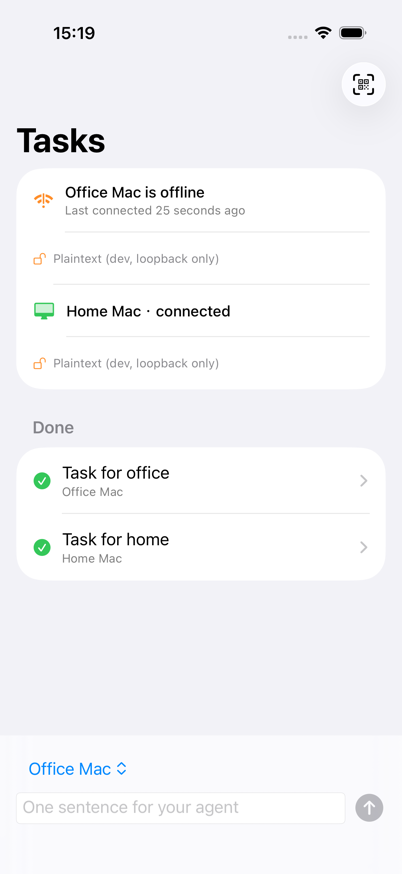
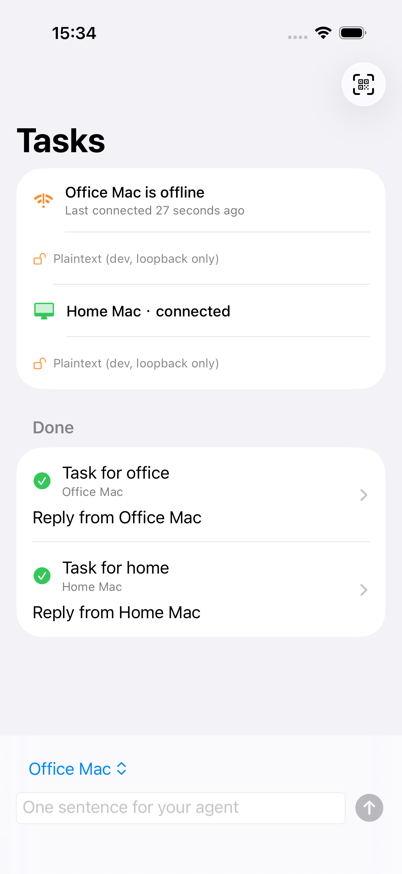
Verify two paired hosts keep device lists and inline replies separate

diff --git a/ios/dsh-mobileUITests/S9PairedHostsUITests.swift b/ios/dsh-mobileUITests/S9PairedHostsUITests.swift
@@ -1,0 +1,56 @@
+import XCTest
+
+@MainActor
+final class S9PairedHostsUITests: XCTestCase {
+    func testPairedDevicesAndInlineAnswersStayWithTheirHost() throws {
+        try XCTSkipUnless(env["DSHM_S9_PEER"] != nil, "run scripts/demo/s9.sh")
+        let peer = try XCTUnwrap(env["DSHM_S9_PEER"])
+        let app = XCUIApplication()
+        app.launchArguments = ["-DSHMResetPairing", "YES", "-DSHMResetStore", "YES", "-DSHMBridgePort", "1"]
+        app.launch()
+        for index in 0...1 {
+            let offer = try XCTUnwrap(env["DSHM_S9_OFFER_\(index)"].flatMap(URL.init(string:)))
+            let pairing = openDeepLink(offer)
+            pairing.buttons["pairing.confirm"].tap()
+            let status = pairing.descendants(matching: .any)["pairing.status"]
+            XCTAssertEqual(waitForValue(status, in: ["paired", "failed"], timeout: 20), "paired", status.label)
+            pairing.buttons["pairing.done"].tap()
+        }
+        var currentDevice: String?
+        for index in 0...1 {
+            let port = try XCTUnwrap(env["DSHM_S9_PORT_\(index)"])
+            // The two distinct Noise keys have the same system hostname; their endpoints distinguish them.
+            let manage = app.buttons.matching(identifier: "host.manage")
+                .matching(NSPredicate(format: "label ENDSWITH %@", ":\(port))")).firstMatch
+            XCTAssertTrue(manage.waitForExistence(timeout: 15), app.debugDescription)
+            let hostName = String(manage.label.dropFirst("Devices and audit on ".count))
+            manage.tap()
+            let current = app.staticTexts["device.current"]
+            XCTAssertTrue(current.waitForExistence(timeout: 10))
+            if let currentDevice { XCTAssertEqual(current.label, currentDevice) }
+            currentDevice = current.label
+            XCTAssertEqual(app.staticTexts["device.id.\(peer)"].exists, index == 0)
+            app.navigationBars.buttons.element(boundBy: 0).tap()
+
+            let picker = app.buttons["composer.host"]
+            if index == 1 {
+                picker.tap()
+                app.buttons[hostName].tap()
+            }
+            XCTAssertTrue(picker.label.contains(hostName), picker.debugDescription)
+            let prompt = "Say hello on \(index)"
+            let input = app.textFields["composer.prompt"]
+            input.tap()
+            input.typeText(prompt)
+            app.buttons["composer.send"].tap()
+            let row = app.buttons.matching(identifier: "tasklist.row")
+                .matching(NSPredicate(format: "label CONTAINS %@ AND label CONTAINS %@", prompt, "Hello from host \(index).")).firstMatch
+            XCTAssertTrue(row.waitForExistence(timeout: 15), app.debugDescription)
+            XCTAssertEqual(row.value as? String, "completed")
+            RunLoop.current.run(until: .now.addingTimeInterval(2.2))
+            XCTAssertTrue(input.exists)
+            XCTAssertFalse(app.descendants(matching: .any)["task.status"].exists)
+        }
+        saveShot("s9-paired-inline")
+    }
+}

diff --git a/ios/dsh-mobile/Features/TaskList/TaskListView.swift b/ios/dsh-mobile/Features/TaskList/TaskListView.swift
@@ -63,6 +63,7 @@ struct TaskListView: View {
                         } label: {
                             Label("Devices and audit", systemImage: "person.badge.key")
                         }
+                        .accessibilityLabel("Devices and audit on \(host.name)")
                         .accessibilityIdentifier("host.manage")
                     }
                 }

diff --git a/PLAN.md b/PLAN.md
@@ -574,13 +574,14 @@ Each slice needs only T0, unless "Needs" says otherwise.
 - [x] [auto] Pair a second host over Noise, dispatch to either host and retain the first host’s connection and cached task — Evidence: test:pairingASecondHostPreservesTheFirstConnectionAndRoutesEachPrompt
 - [x] [auto] Only configured hosts contribute cached tasks, including a paired host that is offline — Evidence: test:cachedTasksAppearOnlyForConfiguredHostsEvenWhenOffline · test:offlineSelectionNeverSendsToAnotherHost
 
-- [ ] [ui] Two paired Noise hosts show their own devices, and short answers from both selected hosts stay inline — Evidence:
+- [x] [ui] Two paired Noise hosts show their own devices, and short answers from both selected hosts stay inline — Evidence: test:S9PairedHostsUITests/testPairedDevicesAndInlineAnswersStayWithTheirHost · cmd:scripts/demo/s9.sh
 
 **Not**: prompt-based host guess (later).
 
 **Log**
 - **2026-11-05**: Started on `claude/s9-multi-host` using ports 47817/3290, profile `~/.dshm/home-s9`, simulator `dshm-S9`. Isolated T0 passed 52 bridge tests, 48 Swift tests, the real DSH CLI and four UI tests.
 - **2026-11-05**: Implementation `064a868` uses every paired Noise host, remembers the composer selection and keeps offline tasks visible only for configured hosts (D43, provisional). The no-fallback, separate model/workspace choices, same-name hosts and encrypted second pairing checks passed. `scripts/demo/s9.sh --shots` passed 52 bridge, 53 Swift and one two-host UI test with zero skips. The viewer saw both tasks together and verified that the offline target remained selected across a relaunch. The Release marker check passed. No new dependencies or downloads. Ready for independent UI review. The real two-Mac check is open.
+- **2026-11-05**: Integrated S8/S10 on the S9 branch. The new real DSH test pairs two isolated profiles over Noise using the same phone identity. A distinct CLI peer appears only on its own host, and both selected hosts return their own inline reply. `scripts/demo/s9.sh --shots` passed 55 bridge tests, 55 Swift tests and both multi-host UI tests with zero skips. The fake-host screenshots use fixture host names. The real-host screenshot stays in the local test result. `1726b40` makes the T0 stream assertion deterministic by pausing the fake after its first chunk. No new dependency or decision. Independent integrated review is next.
 
 ### S10 · Control: devices + audit
 
